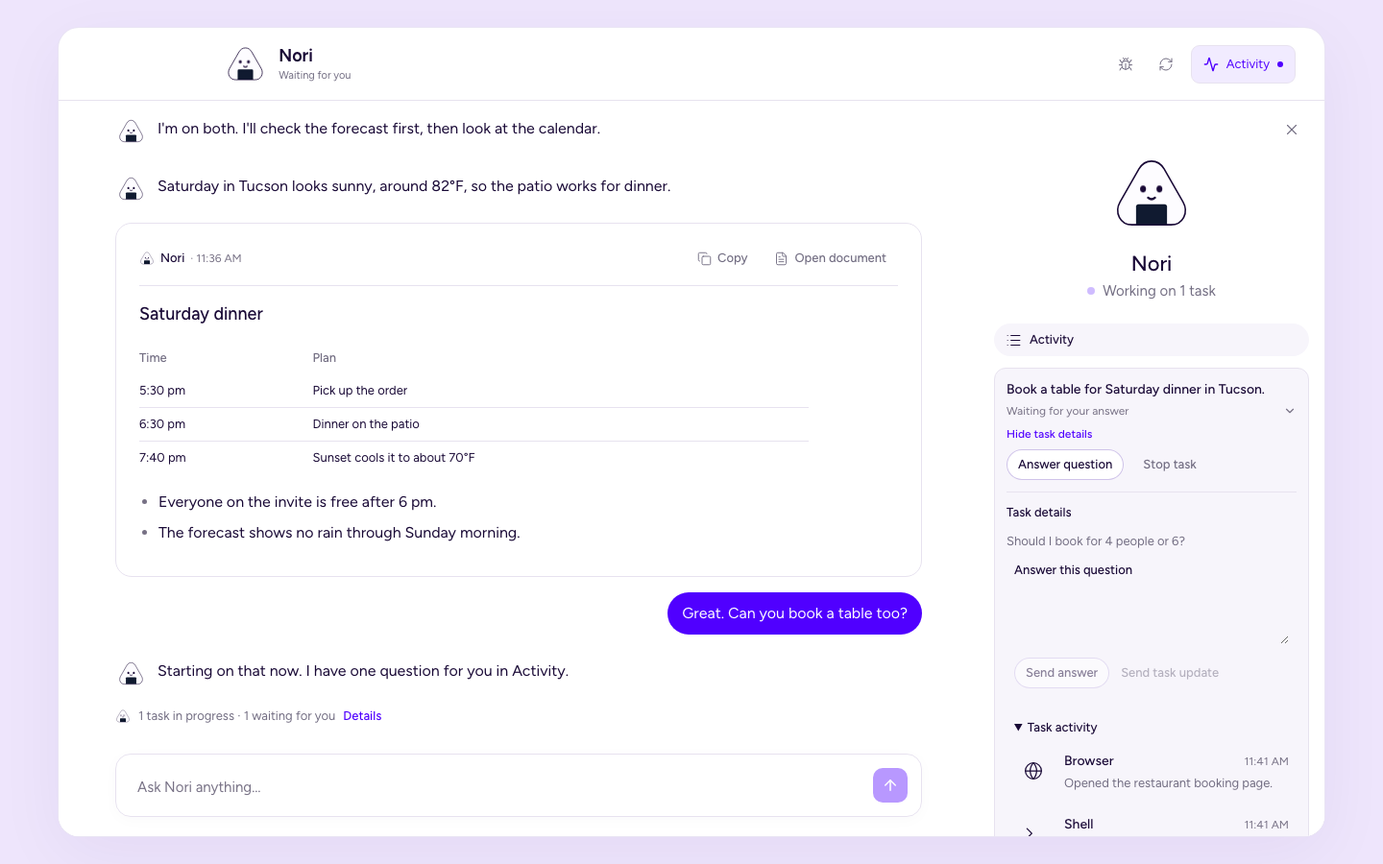
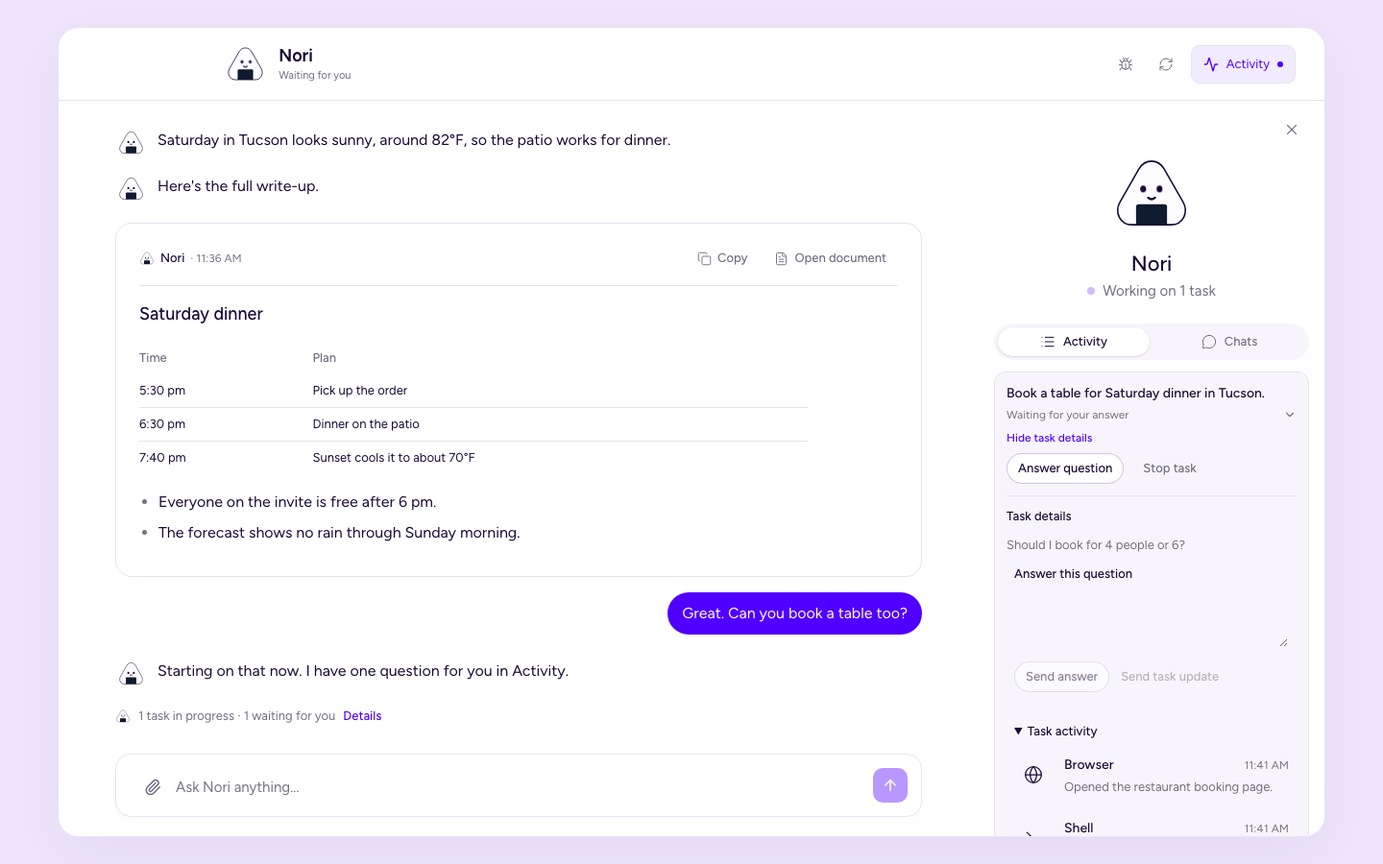
Document the Chats tab and remove the Svelte chat client from the docs
Chats, Clients, Web client and related pages now describe independent chats
in the web client's side panel. Web client screenshots are retaken with the
Activity and Chats tabs, and the decision is recorded.

Docs-Skills: write-docs, plain-writing
Docs-Review: PASS, review-docs in a separate thread

diff --git a/docs/site/chat-client.html b/docs/site/chat-client.html
@@ -3,41 +3,42 @@
 <head>
 <meta charset="utf-8">
 <meta name="viewport" content="width=device-width, initial-scale=1">
-<title>Chat client · Nori</title>
+<title>Chats · Nori</title>
 <link rel="stylesheet" href="site.css">
 <script src="site.js" defer></script>
 </head>
 <body>
-<h1>Chat client</h1>
-<p class="lede">Independent conversations stream replies through the same authenticated web server and agent service as the assistant.</p>
+<h1>Chats</h1>
+<p class="lede">Independent chats open from the side panel's Chats tab and stream replies from the same agent service as the assistant.</p>
 <div class="card"><div class="flow">
-<div class="node"><b>Chat client</b><small>Sends “Total the parts in this CSV” with its assigned file ID.</small></div>
+<div class="node"><b>Chats tab</b><small>Sends “Total the parts in this CSV” with its assigned file ID.</small></div>
 <div class="arrow">↓ <span class="lbl">message through the Next.js server</span></div>
 <div class="node outer"><b>Foreground chat service</b><small>Saves the turn and sends this conversation's context to the outer model.</small></div>
 <div class="arrow">↓ <span class="lbl">requested CSV read</span></div>
 <div class="node"><b>CSV reader</b><small>Checks file assignment and returns rows as untrusted data.</small></div>
 <div class="arrow">↓ <span class="lbl">rows for the outer model's answer</span></div>
-<div class="node outer"><b>Foreground chat service</b><small>Saves reply text at most every 400 ms, then the final answer.</small></div>
+<div class="node outer"><b>Foreground chat service</b><small>Saves reply text as it streams, then the final answer.</small></div>
 <div class="arrow">↓ <span class="lbl">numbered events with the changed messages</span></div>
-<div class="node"><b>Chat client</b><small>Applies each event and reloads the saved chat when it falls behind.</small></div>
+<div class="node"><b>Chats tab</b><small>Applies each event and reloads the saved chat when it falls behind.</small></div>
 </div></div>
 <section><h2>Conversation controls</h2>
 <div class="card"><table class="tall"><tr><th>Control</th><th>Behavior</th></tr>
-<tr><td>New conversation</td><td>Opens an empty draft. The chat is saved when its first message or file is sent.</td></tr>
+<tr><td>New chat</td><td>Opens an empty chat in the main area. The chat is saved when its first message or file is sent.</td></tr>
 <tr><td>Send</td><td>Reuses the same message ID when retrying unchanged input after a failed request.</td></tr>
-<tr><td>Stop reply</td><td>Stops the selected turn and preserves its saved partial text.</td></tr>
+<tr><td>Stop reply</td><td>Replaces Send while a reply streams. It stops that turn and keeps its saved partial text.</td></tr>
+<tr><td>Back to Nori</td><td>Closes the chat and shows the assistant conversation again.</td></tr>
 <tr><td>Delete chat</td><td>Removes the chat, its history and its files after a confirmation. It's refused while a reply or action is open.</td></tr>
-<tr><td>Attach CSV</td><td>Uploads a file to this conversation and assigns it to the next message.</td></tr>
+<tr><td>Attach a file</td><td>Offers CSV files, uploads the file to this chat and assigns it to the next message.</td></tr>
 </table></div>
-<p>The sidebar lists saved chats, newest first. When the event stream ends, the client reconnects on its own. If the connection drops, it shows “Reconnecting…” until it's back.</p>
-<p>The Svelte client is packaged with the web app. Both clients remain available while an assistant task waits or runs.</p>
+<p>The Chats tab lists saved chats, newest first. The page address names the open chat, so a reload reopens it.</p>
+<p>When the event stream ends, the web client reconnects on its own. If the connection drops, the chat shows “Reconnecting…” until it's back. Assistant tasks keep running while a chat is open.</p>
 </section>
 <section><h2>Tools and decisions</h2>
 <div class="card"><table class="tall"><tr><th>Tool</th><th>Available behavior</th></tr>
 <tr><td>CSV reading</td><td>Reads assigned CSV files up to 64 KiB. Larger files require the assistant.</td></tr>
 <tr><td>Calendar reading</td><td>Reads the configured calendar through the shared tool implementation.</td></tr>
-<tr><td>Calendar changes and email</td><td>Shows the saved action with Approve this action and Decline buttons.</td></tr>
-<tr><td>Background tasks and computer</td><td>Use the assistant client for task dispatch, shell, browser, PDF or image analysis.</td></tr>
+<tr><td>Calendar changes and email</td><td>Shows the saved action with Approve and Decline buttons.</td></tr>
+<tr><td>Background tasks and computer</td><td>Use the assistant conversation for task dispatch, shell, browser, PDF or image analysis.</td></tr>
 </table></div>
 <p>An approval names one saved question. While it waits, the reply shows “Waiting for your approval” and new messages are refused.</p>
 <p>After Approve, the service sends the saved action and records the provider outcome. The action's text stays under its outcome.</p>
@@ -52,17 +53,17 @@
 </ul>
 <details class="more"><summary>Addresses and limits</summary>
 <div class="card"><table class="tall"><tr><th>Item</th><th>Value</th></tr>
-<tr><td>Packaged client</td><td><code>/chat/index.html</code></td></tr>
+<tr><td>Open chat</td><td>The page address carries <code>?chat=</code> and the chat ID.</td></tr>
 <tr><td>Browser requests</td><td><code>/api/v1/conversations</code> through the same owner-protected Next.js server.</td></tr>
 <tr><td>Uploaded file</td><td>Up to 10 MiB. Foreground CSV reading has the lower 64 KiB limit.</td></tr>
 <tr><td>Chat context</td><td>Input is refused at 64 saved messages or above 96 KiB of message text and operation data.</td></tr>
 <tr><td>Tool result</td><td>Results above 16 KiB become an error record instead of entering the next model request.</td></tr>
-<tr><td>Event stream</td><td>The service ends each stream after 150 seconds, and the client resumes from its last event. A client more than 500 events behind reloads the chat.</td></tr>
+<tr><td>Event stream</td><td>The service ends each stream after 150 seconds, and the web client resumes from its last event. A client more than 500 events behind reloads the chat.</td></tr>
 <tr><td>Owner name</td><td>The agent service's optional <code>NORI_OWNER_NAME</code> names the person in the chat's instructions.</td></tr>
 </table></div>
 <p>Run and verification commands are in the repository README. <a href="api.html">Service API</a> lists the conversation routes.</p>
 </details>
 </section>
-<details class="sources"><summary>Sources</summary><p><code>chat/src/App.svelte</code> · <code>chat/src/contract.ts</code> · <code>chat/vite.config.ts</code> · <code>core/internal/chat/service.go</code> · <code>core/internal/api/chat.go</code> · <code>core/internal/state/firestore/chat.go</code> · <code>core/internal/agent/foreground.go</code> · <code>core/internal/state/uploads.go</code> · <code>web/src/lib/runtime/forward.ts</code> · <code>web/Dockerfile</code></p></details>
+<details class="sources"><summary>Sources</summary><p><code>web/src/lib/chat/useChat.ts</code> · <code>web/src/lib/chat/contract.ts</code> · <code>web/src/lib/chat/thread.ts</code> · <code>web/src/components/runtime/ChatList.tsx</code> · <code>web/src/components/runtime/NoriApp.tsx</code> · <code>web/src/components/runtime/RuntimeComposer.tsx</code> · <code>web/src/components/chat/Parts.tsx</code> · <code>core/internal/chat/service.go</code> · <code>core/internal/api/chat.go</code> · <code>core/internal/state/firestore/chat.go</code> · <code>core/internal/agent/foreground.go</code> · <code>core/internal/state/uploads.go</code> · <code>web/src/lib/runtime/forward.ts</code></p></details>
 </body>
 </html>

diff --git a/docs/site/web-client.html b/docs/site/web-client.html
@@ -11,22 +11,22 @@
 <h1>Web client</h1>
 <p class="lede">A Next.js app that shows one conversation with Nori and the activity of its tasks.</p>
 <div class="card">
-<img class="shot" src="img/web-desktop.png" width="1440" height="900" alt="The web client at desktop width. A white window on a lavender background holds the Nori header, a conversation with purple user bubbles and a saved document, a composer, and an Activity panel with a task waiting for an answer.">
+<img class="shot" src="img/web-desktop.png" width="1440" height="900" alt="The web client at desktop width. A white window on a lavender background holds the Nori header, a conversation with purple user bubbles and a saved document, a composer, and the side panel on its Activity tab with a task waiting for an answer.">
 <p class="note">Screenshots come from the running client, with made-up data.</p>
 </div>
-<p>Rules for every client are on <a href="clients.html">Clients</a> and <a href="api.html">Service API</a>.</p>
+<p>Shared rules are on <a href="clients.html">Clients</a> and <a href="api.html">Service API</a>.</p>
 <div class="grid2"><a class="card tight go" href="theme.html"><b>Theme</b><span>Colors, type, tokens and the mark.</span></a><a class="card tight go" href="frontend.html"><b>Web client architecture</b><span>Components, requests, live updates and builds.</span></a></div>
 <section><h2>The screen</h2>
 <div class="card"><table class="tall"><tr><th>Part</th><th>What it shows</th><th>Component</th></tr>
 <tr><td>Header</td><td>Nori's mark and status, debug toggle, Refresh, Activity.</td><td>Shell</td></tr>
 <tr><td>Thread</td><td>Saved messages, <a href="proactive.html">calendar offers</a>, documents, time separators, older-message loading and one status line.</td><td><code>Thread</code></td></tr>
-<tr><td>Composer</td><td>A text box, Attach for up to 10 files, Send and a new-message count. Enter sends and Shift+Enter adds a line.</td><td><code>RuntimeComposer</code></td></tr>
-<tr><td>Activity panel</td><td>Running tasks, recent tasks, questions, events, results and screenshots. <code>⌘.</code> or <code>Ctrl+.</code> toggles it.</td><td><code>TaskPanel</code></td></tr>
+<tr><td>Composer</td><td>A text box, Attach for up to 10 files, Send and a new-message count.</td><td><code>RuntimeComposer</code></td></tr>
+<tr><td>Side panel</td><td>An Activity tab for task details and a Chats tab for <a href="chat-client.html">independent chats</a>. <code>⌘.</code> or <code>Ctrl+.</code> toggles it.</td><td><code>TaskPanel</code></td></tr>
 <tr><td>Reading view</td><td>A full-screen copy of a saved reply, with Download as Markdown and Back to chat.</td><td><code>DocumentViewer</code></td></tr>
 </table></div>
 <div class="shots">
 <img class="shot" src="img/web-phone.png" width="780" height="1688" alt="The conversation at phone width. The window fills the screen.">
-<img class="shot" src="img/web-phone-activity.png" width="780" height="1688" alt="The Activity panel at phone width, open as a sheet over the conversation.">
+<img class="shot" src="img/web-phone-activity.png" width="780" height="1688" alt="The side panel at phone width on its Activity tab, open as a sheet over the conversation.">
 </div>
 </section>
 <section><h2>Status and task labels</h2>
@@ -47,7 +47,7 @@
 <tr><td>Stopping…</td><td>Running, and Stop was requested</td><td>None until the agent service confirms</td></tr>
 <tr><td>Completed, Failed, Stopped</td><td>Finished</td><td>None</td></tr>
 </table></div>
-<p>The thread status line can also say that task execution is paused. Chat still works during a pause.</p>
+<p>The thread status line can also say that task execution is paused. Messages still send during a pause.</p>
 <p>A task update sent while an action waits voids that approval request. See <a href="authority.html">Approvals and writes</a>.</p>
 </section>
 <section><h2>Bubbles and documents</h2>
@@ -69,12 +69,12 @@
 </section>
 <details class="more"><summary>Layout by width</summary>
 <table class="tall"><tr><th>Width</th><th>Layout</th></tr>
-<tr><td>1280 px and up</td><td>Activity docks beside the thread at 360 px.</td></tr>
-<tr><td>Below 1280 px</td><td>Activity opens as a sheet from the right, over a scrim.</td></tr>
+<tr><td>1280 px and up</td><td>The side panel docks beside the thread at 360 px.</td></tr>
+<tr><td>Below 1280 px</td><td>The side panel opens as a sheet from the right, over a scrim.</td></tr>
 <tr><td>900 px and below</td><td>The lavender margin shrinks from 28 px to 16 px.</td></tr>
 <tr><td>600 px and below</td><td>The window fills the screen and the Activity button shows only its icon.</td></tr>
 </table>
 </details>
-<details class="sources"><summary>Sources</summary><p><code>web/src/components</code> · <code>web/src/lib/hybrid.ts</code> · <code>web/src/lib/units.ts</code></p></details>
+<details class="sources"><summary>Sources</summary><p><code>web/src/components</code> · <code>web/src/components/runtime/TaskPanel.tsx</code> · <code>web/src/lib/hybrid.ts</code> · <code>web/src/lib/units.ts</code></p></details>
 </body>
 </html>

diff --git a/docs/site/decisions.html b/docs/site/decisions.html
@@ -27,6 +27,7 @@
 <tr><th>Decision</th><th>Why</th><th>Rejected</th><th>Date</th></tr>
 <tr><td>If two clients could disagree about something, the service owns it.</td><td>Clients that build prompts or parse model output drift apart.</td><td>State in browser storage, as in the first demo.</td><td class="nw">Nov 4</td></tr>
 <tr><td>The assistant and independent chat use one agent service and the same owner authentication.</td><td>Both clients use the configured providers, spending controls and tool approval implementation.</td><td>A separate backend and separate credentials for the chat client.</td><td class="nw">Nov 4</td></tr>
+<tr><td>Independent chats open from a Chats tab in the web client's side panel, and the separate Svelte chat client is removed.</td><td>One web app reuses the thread, message and composer components, and there is one client to build and check.</td><td>Keeping a second browser client for the same chat API.</td><td class="nw">Nov 5</td></tr>
 <tr><td>Keep existing assistant records and add separate chat records, files and events.</td><td>Old message IDs, tasks, files and pending questions remain readable through existing routes.</td><td>Moving assistant records into a new format before adding chat.</td><td class="nw">Nov 4</td></tr>
 <tr><td>Chat saves streamed text at most every 400 ms, and each event carries only the messages that save changed.</td><td>In a local test on Nov 4, saving every token with a full snapshot took 196 saves for a 2 KB reply, and a full replay of a five-turn chat was 6.2 MB. Reconnect still replaces message text by ID, so replay can't duplicate it.</td><td>Saving each token. A full conversation snapshot in every event. Appending replayed text fragments to the displayed answer.</td><td class="nw">Nov 4</td></tr>
 <tr><td>A chat event stream uses a database listener and ends after 150 seconds, as the assistant's does. The client resumes on its own.</td><td>Polling read the database twice every 100 ms for each open tab. Ending first stays under the web server's request limit.</td><td>Polling. A stream with no end that the client has to restart by hand.</td><td class="nw">Nov 4</td></tr>
@@ -61,6 +62,6 @@
 <tr><td>The web client polls a small status call, and an event log waits until it's needed.</td><td>Milestone 8 removed the status call and built the event log.</td></tr>
 <tr><td>The client polls the whole snapshot every 2 seconds.</td><td>Milestone 8 removed polling. The client reads one snapshot and follows the event stream.</td></tr>
 </table></div></section>
-<details class="sources"><summary>Sources</summary><p><a href="chat-client.html">Chat client</a>: <code>core/internal/chat/service.go</code> · <code>core/internal/agent/foreground.go</code> · <code>core/internal/state/firestore/chat.go</code> · <code>core/internal/api/chat.go</code> · <code>web/src/lib/runtime/forward.ts</code> · <code>web/src/lib/runtime/auth.ts</code> · <code>chat/src/App.svelte</code> · <code>chat/src/contract.ts</code> · <code>core/internal/app/app.go</code></p><p><a href="results.html">Results and files</a>: <code>core/internal/state/results.go</code> · <code>core/internal/state/firestore/tasks.go</code></p><p><a href="outer-loop.html">Outer loop</a>: <code>core/internal/conversation/command_plan.go</code> · <code>core/internal/conversation/call.go</code> · <code>core/internal/conversation/commands.go</code> · <code>core/internal/conversation/task_context.go</code> · <code>core/internal/state/conversation.go</code></p></details>
+<details class="sources"><summary>Sources</summary><p><a href="chat-client.html">Chats</a>: <code>core/internal/chat/service.go</code> · <code>core/internal/agent/foreground.go</code> · <code>core/internal/state/firestore/chat.go</code> · <code>core/internal/api/chat.go</code> · <code>web/src/lib/runtime/forward.ts</code> · <code>web/src/lib/runtime/auth.ts</code> · <code>web/src/lib/chat/useChat.ts</code> · <code>web/src/lib/chat/contract.ts</code> · <code>core/internal/app/app.go</code></p><p><a href="results.html">Results and files</a>: <code>core/internal/state/results.go</code> · <code>core/internal/state/firestore/tasks.go</code></p><p><a href="outer-loop.html">Outer loop</a>: <code>core/internal/conversation/command_plan.go</code> · <code>core/internal/conversation/call.go</code> · <code>core/internal/conversation/commands.go</code> · <code>core/internal/conversation/task_context.go</code> · <code>core/internal/state/conversation.go</code></p></details>
 </body>
 </html>

diff --git a/docs/site/clients.html b/docs/site/clients.html
@@ -9,14 +9,14 @@
 </head>
 <body>
 <h1>Clients</h1>
-<p class="lede">The assistant and independent chat clients share one agent service, which owns their saved state and execution.</p>
+<p class="lede">The web app shows the assistant and its independent chats, and one agent service owns their saved state and execution.</p>
 <div class="card"><div class="flow">
 <div class="branch">
-<div class="node"><b>Assistant web client</b><small>Shows the assistant conversation and background tasks.</small></div>
-<div class="node"><b>Chat client</b><small>Shows separate conversations and streamed replies.</small></div>
+<div class="node"><b>Assistant conversation</b><small>Shows one conversation with Nori and its background tasks.</small></div>
+<div class="node"><b>Chats tab</b><small>Shows separate chats and their streamed replies.</small></div>
 </div>
 <div class="arrow">↓ <span class="lbl">messages, file uploads and user decisions</span></div>
-<div class="node"><b>Next.js server</b><small>Checks the same owner and origin for both clients.</small></div>
+<div class="node"><b>Next.js server</b><small>Checks the same owner and origin for both.</small></div>
 <div class="arrow">↓ <span class="lbl">HTTP requests with server credentials</span></div>
 <div class="node outer"><b>Agent service</b><small>Runs turns, saves outcomes and enforces tool approvals.</small></div>
 <div class="arrow">↓ <span class="lbl">saved messages, tasks and conversation changes</span></div>
@@ -25,10 +25,10 @@
 <section><h2>Each client</h2>
 <div class="card"><table class="tall"><tr><th>Client</th><th>Behavior</th><th>Pages</th></tr>
 <tr><td>Assistant</td><td>One conversation with background tasks, Activity and saved results.</td><td><a href="web-client.html">Web client</a>, <a href="frontend.html">Web client architecture</a></td></tr>
-<tr><td>Independent chat</td><td>Multiple conversations with streamed text, CSV reading and tool approvals.</td><td><a href="chat-client.html">Chat client</a></td></tr>
+<tr><td>Chats tab</td><td>Multiple chats with streamed text, CSV reading and tool approvals, opened from the side panel.</td><td><a href="chat-client.html">Chats</a></td></tr>
 <tr class="designed"><td>Native and CLI</td><td>Not built.</td><td>Platform sign-in, push and offline clients remain planned.</td></tr>
 </table></div>
-<p>Both browser clients support phone widths. The assistant links to chat, and chat links back to the assistant.</p>
+<p>The web client supports phone widths. Its side panel switches between Activity and Chats, and an open chat's back arrow returns to the assistant.</p>
 </section>
 <section><h2>What the service owns</h2>
 <div class="card"><table class="tall"><tr><th>Concern</th><th>Service</th><th>Client</th></tr>
@@ -43,10 +43,10 @@
 <ul class="pts">
 <li>Chat messages, events, attachments and approvals belong to one conversation.</li>
 <li>New chats exclude assistant tasks, saved memories and other chats from model context.</li>
-<li>Both clients use the same owner authentication, configured providers and development spending controls.</li>
+<li>The assistant and chats use the same owner authentication, configured providers and development spending controls.</li>
 </ul>
 <p><a href="api.html">Service API</a> describes the routes and replay behavior.</p>
 </section>
-<details class="sources"><summary>Sources</summary><p><code>chat/src/App.svelte</code> · <code>core/internal/chat/service.go</code> · <code>core/internal/app/app.go</code> · <code>core/internal/state/firestore/chat.go</code> · <code>core/internal/state/firestore/database.go</code> · <code>web/src/components/runtime/NoriApp.tsx</code> · <code>web/src/lib/runtime/auth.ts</code> · <code>web/src/lib/runtime/forward.ts</code> · <code>core/internal/spend/client.go</code> · <code>migration/plan.json</code></p></details>
+<details class="sources"><summary>Sources</summary><p><code>web/src/lib/chat/useChat.ts</code> · <code>web/src/components/runtime/TaskPanel.tsx</code> · <code>core/internal/chat/service.go</code> · <code>core/internal/app/app.go</code> · <code>core/internal/state/firestore/chat.go</code> · <code>core/internal/state/firestore/database.go</code> · <code>web/src/components/runtime/NoriApp.tsx</code> · <code>web/src/lib/runtime/auth.ts</code> · <code>web/src/lib/runtime/forward.ts</code> · <code>core/internal/spend/client.go</code> · <code>migration/plan.json</code></p></details>
 </body>
 </html>

diff --git a/docs/site/code.html b/docs/site/code.html
@@ -10,7 +10,7 @@
 <body>
 <h1>Code map</h1>
 <p class="lede">Where to look when you want to read or change something.</p>
-<p>Go code is under <span class="mono">core/</span>. The assistant client is under <span class="mono">web/src/</span>, and independent chat is under <span class="mono">chat/src/</span>.
+<p>Go code is under <span class="mono">core/</span>. The web client, including its Chats tab, is under <span class="mono">web/src/</span>.
   Dependencies run in one direction: entrypoints build an <span class="mono">app</span>, whose <span class="mono">api</span> routes call
   <span class="mono">conversation</span> or <span class="mono">chat</span>, which use <span class="mono">state</span> and <span class="mono">dispatch</span>.</p>
 <p>Code reaches infrastructure through small contracts: <span class="mono">wake</span> sends wakes, <span class="mono">dispatch</span> delivers saved commands to
@@ -59,8 +59,7 @@
           <tr><td>Infrastructure and releases</td><td><span class="mono">core/infrastructure/</span></td></tr>
           <tr><td>Live end-to-end tests</td><td><span class="mono">core/e2e/</span></td></tr>
           <tr><th colspan="2">Clients</th></tr>
-          <tr><td>The independent <a href="chat-client.html">Chat client</a> and its HTTP contract</td><td><span class="mono">chat/src/App.svelte, chat/src/contract.ts</span></td></tr>
-          <tr><td>Chat development proxy, offline fixture and packaged build</td><td><span class="mono">chat/vite.config.ts, chat/fixture.ts, web/Dockerfile</span></td></tr>
+          <tr><td>The <a href="chat-client.html">Chats</a> tab, its state and its HTTP contract</td><td><span class="mono">web/src/lib/chat/, web/src/components/runtime/ChatList.tsx</span></td></tr>
           <tr><td>The assistant UI and task panel (<a href="web-client.html">Web client</a>, <a href="frontend.html">components</a>)</td><td><span class="mono">web/src/components/runtime/, web/src/components/chat/</span></td></tr>
           <tr><td>How the browser sends messages and follows the stream</td><td><span class="mono">web/src/lib/runtime/useRuntime.ts</span></td></tr>
           <tr><td>Routes between the browser and the service</td><td><span class="mono">web/src/app/api/, web/src/lib/runtime/forward.ts</span></td></tr>
@@ -69,7 +68,8 @@
           <tr><th colspan="2">Shared-service verification</th></tr>
           <tr><td>Acceptance inventory, isolated runners and evidence checks</td><td><span class="mono">migration/plan.json, migration/verify.py</span></td></tr>
           <tr><td>Service integration and retained-data recovery</td><td><span class="mono">core/e2e/shared-service.test.js, migration/recovery.test.ts</span></td></tr>
-          <tr><td>Both-client browser journeys and proxy access checks</td><td><span class="mono">chat/scripts/smoke.mjs, proxy-auth.mjs</span></td></tr>
+          <tr><td>Chat contract offline fixture</td><td><span class="mono">migration/fixture.ts, migration/contract.test.ts</span></td></tr>
+          <tr><td>Assistant and Chats tab browser journeys, and proxy access checks</td><td><span class="mono">migration/browser.mjs, migration/proxy-auth.mjs</span></td></tr>
     </table>
   </div>
   <div class="card">
@@ -84,6 +84,6 @@
     </ul>
   </div>
 
-<details class="sources"><summary>Sources</summary><p><code>core/internal/</code> · <code>core/cmd/</code> · <code>web/src/</code> · <code>chat/src/App.svelte</code> · <code>chat/src/contract.ts</code> · <code>chat/fixture.ts</code> · <code>chat/vite.config.ts</code> · <code>web/Dockerfile</code> · <code>migration/</code> · <code>Makefile</code></p><p><a href="system.html">Service overview</a> · <a href="chat-client.html">Chat client</a></p></details>
+<details class="sources"><summary>Sources</summary><p><code>core/internal/</code> · <code>core/cmd/</code> · <code>web/src/</code> · <code>web/src/lib/chat/contract.ts</code> · <code>web/src/lib/chat/useChat.ts</code> · <code>web/src/components/runtime/ChatList.tsx</code> · <code>migration/fixture.ts</code> · <code>migration/browser.mjs</code> · <code>migration/</code> · <code>Makefile</code></p><p><a href="system.html">Service overview</a> · <a href="chat-client.html">Chats</a></p></details>
 </body>
 </html>

diff --git a/docs/site/system.html b/docs/site/system.html
@@ -11,7 +11,7 @@
 <h1>Service overview</h1>
 <p class="lede">One agent service runs the assistant and independent chats, with saved state shared across its processes.</p>
 <div class="card"><div class="flow">
-<div class="node"><b>Browser clients</b><small>The assistant and chat client send messages through the same Next.js server.</small></div>
+<div class="node"><b>Browser clients</b><small>The assistant and its Chats tab send messages through the same Next.js server.</small></div>
 <div class="arrow">↓ <span class="lbl">owner-checked HTTP requests</span></div>
 <div class="node outer"><b>Go agent service</b><small>Saves inputs and runs conversation turns.</small></div>
 <div class="arrow">↓ <span class="lbl">accepted conversation work</span></div>
@@ -46,7 +46,7 @@
 <tr><td>Temporal</td><td>Task execution progress and durable waits.</td></tr>
 <tr><td>File storage</td><td>Uploaded bytes, screenshots and saved result files.</td></tr>
 </table></div>
-<p><a href="records.html">Records and delivery</a> covers task records. <a href="chat-client.html">Chat client</a> covers foreground limits and controls.</p>
+<p><a href="records.html">Records and delivery</a> covers task records. <a href="chat-client.html">Chats</a> covers foreground limits and controls.</p>
 </section>
 <details class="sources"><summary>Sources</summary><p><code>core/internal/app/app.go</code> · <code>core/internal/chat/service.go</code> · <code>core/internal/conversation/runner.go</code> · <code>core/internal/conversation/tasks.go</code> · <code>core/internal/task/client.go</code> · <code>core/internal/task/workflow.go</code> · <code>core/internal/taskworker/register.go</code> · <code>core/internal/state/chat.go</code> · <code>core/internal/state/firestore/chat.go</code> · <code>core/internal/state/firestore/database.go</code> · <code>core/internal/platform/platform.go</code> · <code>core/internal/spend/client.go</code> · <code>web/src/lib/runtime/forward.ts</code></p></details>
 </body>

diff --git a/docs/site/frontend.html b/docs/site/frontend.html
@@ -29,7 +29,7 @@
 <tr><td><code>delivered</code></td><td>Reports saved results referenced by loaded replies while the tab is visible.</td></tr>
 <tr><td><code>trace</code></td><td>Fetches task steps when a debug row is open, and when the task changes.</td></tr>
 </table></div>
-<p>The client never calls a model. The separate <a href="chat-client.html">Chat client</a> uses the same authenticated server.</p>
+<p>The client never calls a model. Its <a href="chat-client.html">Chats</a> tab uses the same authenticated server.</p>
 </section>
 <section><h2>Sending a message</h2>
 <div class="card"><div class="flow">
@@ -86,7 +86,6 @@
 <h3>Components</h3>
 <p>The runtime hook owns requests and saved state. The thread owns scrolling, viewport reporting and new-message counts. See <a href="code.html">Code map</a> for other components.</p>
 <h3>Builds</h3>
-<p>The root web build first builds the Svelte chat client into the web app's public files. The Docker image includes both clients.</p>
 <p>The assistant uses Next.js, React and Tailwind. See the repository README for guarded local commands, and <a href="deploy.html">Deployment</a> for hosting.</p>
 </details>
 <details class="sources"><summary>Sources</summary><p><code>web/src/components/runtime/NoriApp.tsx</code> · <code>web/src/components/chat/Thread.tsx</code> · <code>web/src/lib/types.ts</code> · <code>web/src/lib/runtime/auth.ts</code> · <code>web/src/lib/runtime/methods.ts</code> · <code>web/src/proxy.ts</code> · <code>web/src/app/page.tsx</code> · <code>web/src/app/layout.tsx</code> · <code>web/src/lib/observability/privacy.ts</code> · <code>web/src/app/api/agent/[operation]/route.ts</code> · <code>web/src/lib/runtime/useRuntime.ts</code> · <code>web/src/lib/runtime/server.ts</code> · <code>web/src/lib/runtime/forward.ts</code> · <code>Makefile</code> · <code>web/Dockerfile</code></p></details>

diff --git a/docs/site/api.html b/docs/site/api.html
@@ -67,6 +67,6 @@
 </ul>
 <p>Reading the Tucson weather reply clears its count in another assistant session. See <a href="frontend.html#live-updates">Live updates</a>.</p>
 </section>
-<details class="sources"><summary>Sources</summary><p><code>core/internal/api/http.go</code> · <code>core/internal/api/chat.go</code> · <code>core/internal/api/events.go</code> · <code>core/internal/api/uploads.go</code> · <code>core/internal/conversation/runner.go</code> · <code>core/internal/conversation/session.go</code> · <code>core/internal/chat/service.go</code> · <code>core/internal/state/firestore/chat.go</code> · <code>core/internal/state/notify.go</code> · <code>core/internal/state/firestore/events.go</code> · <code>web/src/lib/runtime/auth.ts</code> · <code>web/src/lib/runtime/forward.ts</code> · <code>web/src/lib/runtime/useRuntime.ts</code> · <code>chat/src/App.svelte</code> · <code>chat/src/contract.ts</code></p></details>
+<details class="sources"><summary>Sources</summary><p><code>core/internal/api/http.go</code> · <code>core/internal/api/chat.go</code> · <code>core/internal/api/events.go</code> · <code>core/internal/api/uploads.go</code> · <code>core/internal/conversation/runner.go</code> · <code>core/internal/conversation/session.go</code> · <code>core/internal/chat/service.go</code> · <code>core/internal/state/firestore/chat.go</code> · <code>core/internal/state/notify.go</code> · <code>core/internal/state/firestore/events.go</code> · <code>web/src/lib/runtime/auth.ts</code> · <code>web/src/lib/runtime/forward.ts</code> · <code>web/src/lib/runtime/useRuntime.ts</code> · <code>web/src/lib/chat/useChat.ts</code> · <code>web/src/lib/chat/contract.ts</code></p></details>
 </body>
 </html>

diff --git a/docs/site/site.js b/docs/site/site.js
@@ -3,7 +3,7 @@ const NAV = [
   ['Start', [['index', 'Overview'], ['product', 'What Nori should do'], ['request', 'Following a request']]],
   ['The loops', [['outer-loop', 'Outer loop'], ['classification', 'Classifying a message'], ['outer-model-failure', 'Outer model failure'], ['inner-loop', 'Inner loop'], ['transcript', 'Task transcript'], ['contract', 'How the loops talk'], ['tasks', 'Task lifecycle'], ['completion', 'Finishing a task']]],
   ['Agent service', [['system', 'Service overview'], ['records', 'Records and delivery'], ['computer', 'Persistent computer'], ['tools', 'Tools'], ['catalog', 'Tool catalog'], ['memory', 'Memory and context'], ['results', 'Results and files'], ['budgets', 'Budgets and controls'], ['observability', 'Observability'], ['deploy', 'Deployment'], ['authority', 'Approvals and writes'], ['proactive', 'Calendar offers'], ['schedules', 'Schedules']]],
-  ['Clients', [['clients', 'Clients'], ['api', 'Service API'], ['web-client', 'Web client'], ['chat-client', 'Chat client'], ['frontend', 'Web client architecture'], ['theme', 'Theme']]],
+  ['Clients', [['clients', 'Clients'], ['api', 'Service API'], ['web-client', 'Web client'], ['chat-client', 'Chats'], ['frontend', 'Web client architecture'], ['theme', 'Theme']]],
   ['Planned', [['roadmap', 'Roadmap']]],
   ['Reference', [['scenarios', 'Scenarios'], ['decisions', 'Decisions'], ['open-questions', 'Open questions'], ['code', 'Code map'], ['words', 'Words we use'], ['reading', 'Reading list'], ['sources', 'Sources']]],
 ];
